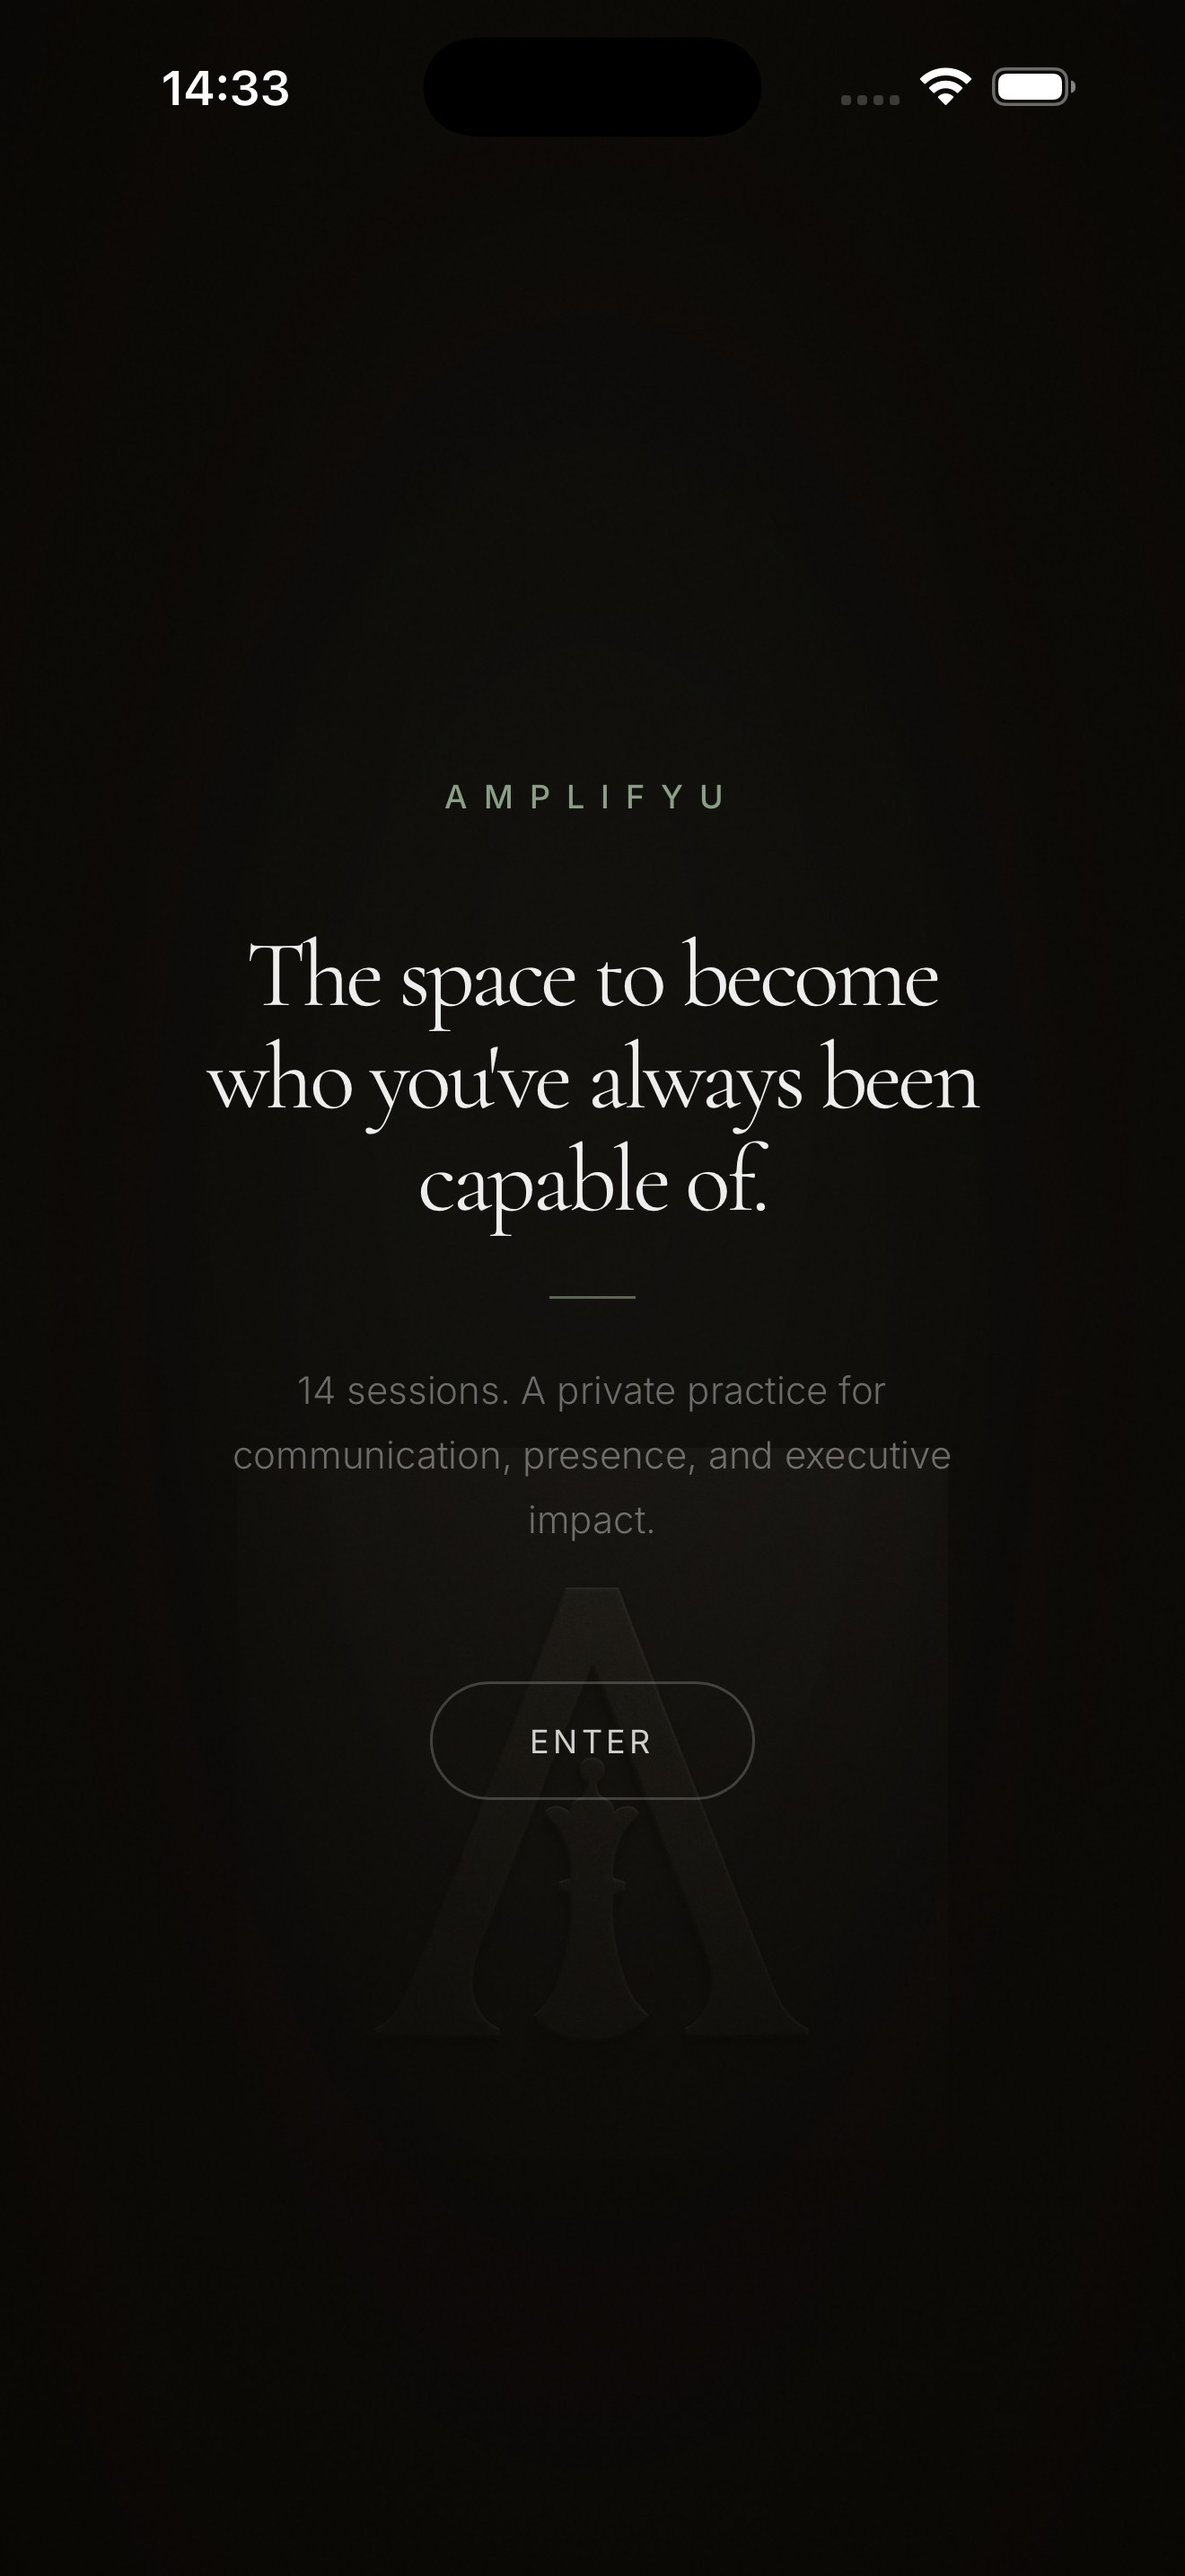
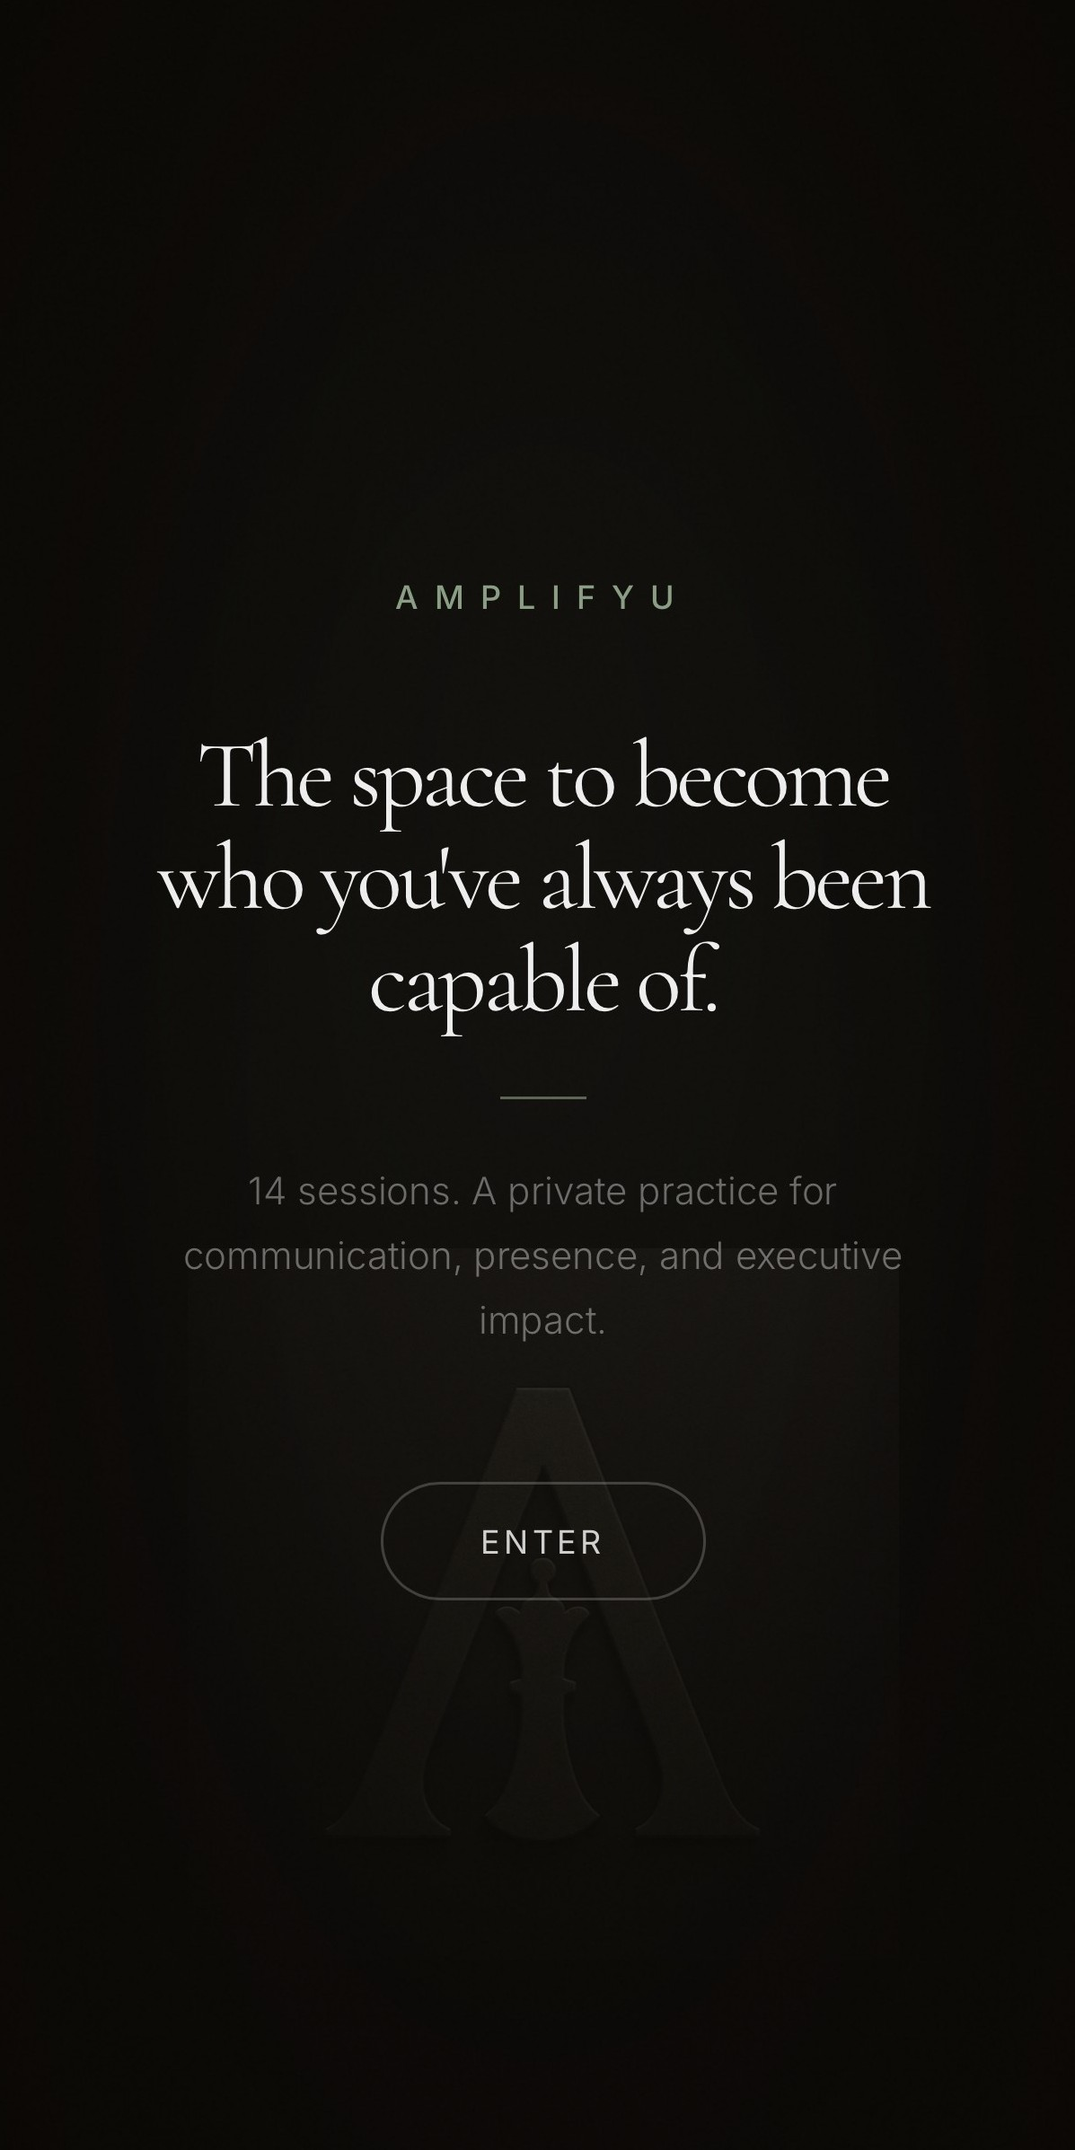
Home: fix double phone-bezel/notch artifact in mobile demo
The mobile-demo-v2 recording was captured with the Simulator's device
bezel baked into the pixels (physical buttons, rounded body, dynamic
island, home indicator) — nested inside our own custom .w-phone-frame
mockup, this produced two overlapping notch/oval shapes at the top of
the screen. Cropped the poster image to just the inner screen content
(bezel and status bar removed). The actual mobile-demo-v2.mp4 needs
the same crop and a re-upload to Blob storage — done in this session,
file handed off separately since Blob uploads are manual via the
Vercel dashboard.

Claude-Session: https://claude.ai/code/session_01UaxHHHeRqgHCZokPVoNBkk

diff --git a/index.html b/index.html
@@ -423,7 +423,7 @@ footer { display:flex; align-items:center; justify-content:space-between; paddin
     width: 100%;
     height: 100%;
     object-fit: cover;
-    object-position: center 100%;
+    object-position: center center;
   }
   .w-hero-h1 { font-size: clamp(36px, 9vw, 54px); }
   .w-hero-sub { max-width:100%; }
